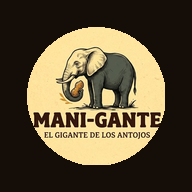
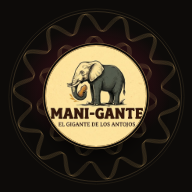
v4.1: pulido de la Casa (splash e íconos PWA, offline, panel, copys sin 'armas', móvil)
Claude-Session: https://claude.ai/code/session_01MP6L6wWiYYpSBmbDxhuL1U

diff --git a/css/admin.css b/css/admin.css
@@ -14,11 +14,11 @@ code { font-family: ui-monospace, Menlo, monospace; font-size: .85em; }
 .a-tools { display: flex; gap: 10px; align-items: center; flex-wrap: wrap; }
 .a-tools .a-field input { background: rgba(255,255,255,.08); border-color: rgba(255,255,255,.2); color: #f4ead6; }
 .a-main { max-width: 1240px; margin: 0 auto; padding: clamp(16px, 3vw, 32px); display: grid; gap: 20px; }
-.a-login { max-width: 420px; margin: 10vh auto; display: grid; gap: 14px; padding: 32px; border-radius: 24px; background: var(--surface); box-shadow: var(--elevation-raised); }
+.a-login { max-width: 420px; margin: 10vh auto; display: grid; gap: 14px; padding: 32px; border-radius: 4px; background: var(--surface); box-shadow: var(--elevation-raised); }
 .a-login h1 { font-family: "Bodoni Moda", "Bodoni Fallback", Georgia, serif; font-weight: 450; font-size: 2rem; }
 .a-login form { display: grid; gap: 12px; }
 .a-error { color: var(--color-destructive); font-weight: 700; }
-.a-card { background: var(--surface); border: 1px solid var(--line); border-radius: 22px; padding: clamp(16px, 2.4vw, 24px); box-shadow: var(--elevation-card); display: grid; gap: 14px; min-width: 0; align-content: start; }
+.a-card { background: var(--surface); border: 1px solid var(--line); border-radius: 4px; padding: clamp(16px, 2.4vw, 24px); box-shadow: var(--elevation-card); display: grid; gap: 14px; min-width: 0; align-content: start; }
 .a-card-head { display: flex; justify-content: space-between; align-items: center; gap: 12px; flex-wrap: wrap; }
 .a-card h2 { font-family: "Bodoni Moda", "Bodoni Fallback", Georgia, serif; font-weight: 500; font-size: 1.35rem; }
 .a-sub { font-size: .78rem; text-transform: uppercase; letter-spacing: .12em; color: var(--subtle); margin-top: 6px; }
@@ -31,19 +31,19 @@ code { font-family: ui-monospace, Menlo, monospace; font-size: .85em; }
 .a-field.small { flex: 0 1 120px; } .a-field.wide { flex: 1 1 100%; }
 .a-field.inline { display: flex; align-items: center; gap: 6px; flex: 0 0 auto; }
 .a-field span { font-size: .72rem; font-weight: 800; letter-spacing: .1em; text-transform: uppercase; color: var(--subtle); }
-.a-field input, .a-field select { min-height: 44px; padding: 8px 12px; border-radius: 12px; border: 1px solid var(--line); background: var(--surface-2); }
-.a-btn { min-height: 44px; padding: 0 18px; border-radius: 99px; border: 1px solid var(--line); background: var(--surface-2); font-weight: 700; cursor: pointer; }
+.a-field input, .a-field select { min-height: 44px; padding: 8px 12px; border-radius: 2px; border: 1px solid var(--line); background: var(--surface-2); }
+.a-btn { min-height: 44px; padding: 0 18px; border-radius: 2px; font-family: "Big Shoulders", "Arial Narrow", sans-serif; letter-spacing: .12em; text-transform: uppercase; font-size: .95rem; border: 1px solid var(--line); background: var(--surface-2); font-weight: 700; cursor: pointer; }
 .a-btn.primary { background: linear-gradient(135deg, var(--color-primary-light), var(--color-primary)); color: var(--color-night); border: 0; }
 .a-btn.ghost { background: transparent; }
 .a-top .a-btn { color: #f4ead6; border-color: rgba(255,255,255,.25); background: transparent; }
 .a-btn.small { min-height: 36px; padding: 0 12px; font-size: .82rem; }
 .a-btn[disabled] { opacity: .4; cursor: not-allowed; }
 .a-kpis { display: grid; grid-template-columns: repeat(4, minmax(0, 1fr)); gap: 14px; }
-.a-kpi { padding: 18px 20px; border-radius: 20px; background: var(--surface); border: 1px solid var(--line); box-shadow: var(--elevation-card); display: grid; }
+.a-kpi { padding: 18px 20px; border-radius: 4px; background: var(--surface); border: 1px solid var(--line); box-shadow: var(--elevation-card); display: grid; }
 .a-kpi span { font-size: .74rem; font-weight: 800; text-transform: uppercase; letter-spacing: .1em; color: var(--subtle); }
-.a-kpi strong { font-family: "Bodoni Moda", "Bodoni Fallback", Georgia, serif; font-weight: 450; font-size: 2.2rem; line-height: 1.1; }
+.a-kpi strong { font-family: "Big Shoulders", "Arial Narrow", sans-serif; font-weight: 800; font-size: 2.6rem; line-height: 1.1; }
 .a-kpi small { color: var(--muted); }
-.a-chip { font-size: .78rem; font-weight: 700; padding: 6px 12px; border-radius: 99px; background: var(--surface-2); border: 1px solid var(--line); }
+.a-chip { font-size: .78rem; font-weight: 700; padding: 6px 12px; border-radius: 2px; background: var(--surface-2); border: 1px solid var(--line); }
 .a-chip[data-tone="good"] { border-color: var(--color-status-good); }
 .a-chip[data-tone="critical"] { border-color: var(--color-status-critical); }
 .a-switch { display: inline-flex; align-items: center; gap: 10px; font-weight: 700; min-height: 44px; cursor: pointer; }
@@ -112,3 +112,9 @@ code { font-family: ui-monospace, Menlo, monospace; font-size: .85em; }
 .a-toast.bad { background: var(--color-destructive); }
 .a-tip { position: fixed; z-index: 40; padding: 6px 10px; border-radius: 8px; background: var(--color-night); color: #f4ead6; font-size: .8rem; font-weight: 700; pointer-events: none; }
 @media (max-width: 900px) { .a-grid2, .a-charts { grid-template-columns: minmax(0, 1fr); } .a-kpis { grid-template-columns: repeat(2, minmax(0, 1fr)); } .a-vitals { grid-template-columns: repeat(2, minmax(0, 1fr)); } }
+
+/* v4 · Casa Mani-Gante: el panel comparte materiales con la web */
+#aApp:not([hidden]) { display: grid; gap: 20px; }
+.a-top { border-bottom: 1px solid rgba(210,174,109,.35); }
+.a-card h2::before { content: "◆ "; color: var(--gold); font-size: .7em; vertical-align: middle; }
+.a-card, .a-kpi { border-color: rgba(210,174,109,.18); }

diff --git a/offline.html b/offline.html
@@ -1,5 +1,15 @@
 <!DOCTYPE html>
 <html lang="es-CL"><head><meta charset="UTF-8"><meta name="viewport" content="width=device-width, initial-scale=1"><title>Sin conexión · MANI-GANTE</title>
+<meta name="theme-color" content="#0d0b09">
 <link rel="stylesheet" href="/css/fonts.css"><link rel="stylesheet" href="/css/tokens.css">
-<style>body{margin:0;min-height:100svh;display:grid;place-items:center;text-align:center;padding:24px;background:var(--color-night);color:#f4ead6;font-family:'Instrument Sans',system-ui,sans-serif}h1{font-family:Fraunces,Georgia,serif;font-weight:450;font-size:2.4rem;margin:12px 0}p{color:rgba(244,234,214,.75);max-width:42ch;margin:0 auto 20px}a{display:inline-flex;align-items:center;min-height:48px;padding:0 24px;border-radius:99px;background:var(--color-primary);color:var(--color-night);font-weight:700;text-decoration:none}.hand{font-family:Caveat,cursive;font-size:1.6rem;color:var(--color-primary-light)}</style></head>
-<body><main><p class="hand">se cortó la señal</p><h1>Sin conexión, mi pana</h1><p>Cuando vuelva el internet seguimos. Tu boleta quedó guardada en este teléfono.</p><a href="/">Reintentar</a></main></body></html>
+<style>
+body{margin:0;min-height:100svh;display:grid;place-items:center;text-align:center;padding:24px;color:#f2eadb;font-family:'Instrument Sans',system-ui,sans-serif;background:radial-gradient(60% 60% at 50% 40%,rgba(110,26,44,.45),transparent 70%),#0d0b09}
+main{max-width:460px;display:grid;gap:16px;justify-items:center}
+.plate{font-family:'Big Shoulders','Arial Narrow',sans-serif;font-weight:800;letter-spacing:.3em;text-transform:uppercase;font-size:.84rem;color:#ddbb7c;border:1px solid currentColor;padding:6px 14px}
+h1{font-family:'Bodoni Moda',Georgia,serif;font-weight:500;font-size:clamp(2.4rem,9vw,3.4rem);line-height:.95;margin:0}
+h1 em{color:#d9b676}
+p{color:#bfb3a1;margin:0}
+a{display:inline-flex;align-items:center;min-height:52px;padding:0 28px;background:linear-gradient(100deg,#b08a45,#f1dba8 40%,#d2ae6d 60%,#e9cf97);color:#0d0b09;font-family:'Big Shoulders','Arial Narrow',sans-serif;font-weight:800;letter-spacing:.16em;text-transform:uppercase;text-decoration:none}
+a:focus-visible{outline:2px solid #ddbb7c;outline-offset:3px}
+</style></head>
+<body><main><p class="plate">Se cortó la línea</p><h1>La casa sigue <em>abierta</em></h1><p>Se cayó el internet, mi pana. Cuando vuelva seguimos: tu cuenta quedó guardada en este teléfono.</p><a href="/">Reintentar</a></main></body></html>

diff --git a/design/banners/splash.html b/design/banners/splash.html
@@ -1,0 +1,31 @@
+<!doctype html>
+<html lang="es"><head><meta charset="utf-8"><title>Splash · Casa Mani-Gante</title>
+<link rel="stylesheet" href="../../css/fonts.css">
+<style>
+html, body { margin: 0; }
+.s { position: relative; overflow: hidden; display: grid; place-items: center; background: radial-gradient(55% 45% at 50% 45%, #5a1424, transparent 72%), #0d0b09; color: #f2eadb; }
+.ros { position: absolute; color: rgba(210,174,109,.35); }
+.coin { position: relative; border-radius: 50%; box-shadow: 0 0 0 calc(var(--u) * .5) #d2ae6d, 0 0 0 calc(var(--u) * 1.4) #0d0b09, 0 0 0 calc(var(--u) * 1.7) rgba(210,174,109,.55), 0 calc(var(--u) * 6) calc(var(--u) * 10) rgba(0,0,0,.6); }
+.txt { position: absolute; left: 0; right: 0; text-align: center; }
+.name { font-family: "Bodoni Moda", serif; font-weight: 600; letter-spacing: .18em; }
+.name span { color: #d2ae6d; font-family: "Big Shoulders", sans-serif; }
+.slogan { font-family: "Bodoni Moda", serif; font-style: italic; color: #d9b676; margin-top: .4em; }
+</style></head>
+<body>
+<div class="s" id="s"></div>
+<script type="module">
+import { guilloche } from "../../js/art.mjs";
+const q = new URLSearchParams(location.search);
+const w = +q.get("w"), h = +q.get("h"), icon = q.has("icon");
+const s = document.getElementById("s");
+s.style.width = w + "px"; s.style.height = h + "px";
+const u = Math.min(w, h) / 100; s.style.setProperty("--u", u + "px");
+const coin = icon ? Math.round(w * .52) : Math.round(Math.min(w, h) * .34);
+const ros = icon ? Math.round(w * .92) : Math.round(Math.min(w, h) * .9);
+s.innerHTML = `<div class="ros" style="width:${ros}px;height:${ros}px">${guilloche()}</div>
+  <img class="coin" src="../../assets/img/icon-512.png" alt="" style="width:${coin}px;height:${coin}px">
+  ${icon ? "" : `<div class="txt" style="bottom:${Math.round(h * .16)}px"><div class="name" style="font-size:${Math.round(w * .075)}px">MANI<span>-</span>GANTE</div><div class="slogan" style="font-size:${Math.round(w * .045)}px">Para gente gánster y elegante</div></div>`}`;
+await document.fonts.ready;
+document.body.dataset.ready = "1";
+</script>
+</body></html>

diff --git a/css/styles.css b/css/styles.css
@@ -1023,7 +1023,11 @@ svg.bag { display: block; height: auto; aspect-ratio: 120 / 160; }
   .has-cart .agent-fab { bottom: 84px; }
   .dock:not([hidden]) { display: flex; }
   .drawer { top: auto; left: 8px; right: 8px; bottom: 0; width: auto; max-height: 88svh; transform: translateY(calc(100% + 20px)); }
-  .footer-actions .btn { flex: 1; }
+  .footer-actions { width: 100%; }
+  .footer-actions .btn { flex: 1 1 100%; }
+  .drawer-body { min-height: 26svh; }
+  .drawer-foot { gap: 8px; padding: 12px 18px 20px; }
+  .drawer-foot .btn { --h: 48px; }
   .footer-cols { grid-template-columns: minmax(0, 1fr); }
   .letter-body { columns: 1; }
   .masthead-top span:nth-child(2) { display: none; }

diff --git a/index.html b/index.html
@@ -1186,7 +1186,7 @@
   <div class="container">
     <header class="section-head center">
       <p class="eyebrow"><span>Cap. III</span><span>Para el grupo, la sala o un regalo</span></p>
-      <h2 class="h2" id="boxTitle">Arma tu <em>maletín</em></h2>
+      <h2 class="h2" id="boxTitle">Llena tu <em>maletín</em></h2>
       <p class="lead">Elige el tamaño y llena cada compartimiento con el sabor que quieras. Para compartir, para la sala o para quedar como un señor.</p>
     </header>
     <div class="box-sizes" id="boxSizes" role="radiogroup" aria-label="Tamaño del maletín"></div>

diff --git a/docs/brand-guidelines.md b/docs/brand-guidelines.md
@@ -83,7 +83,7 @@ El papel (invitación, cuenta, periódico y telegrama) usa la clase `.paper-room
 |---|---|
 | Tienda / top ventas | **Los más buscados** / "Más buscado" |
 | Sabor nuevo | "Recién llegado" |
-| Arma tu caja | **El maletín** |
+| Arma tu caja | **Llena tu maletín** (evitamos "arma": en clave gánster suena a armas) |
 | Reservar | **Pedir una cita con el Jefe** |
 | Carrito / boleta | **La cuenta de la casa** |
 | Formas de pago | **Así se cierra el trato** |
@@ -102,7 +102,7 @@ El papel (invitación, cuenta, periódico y telegrama) usa la clase `.paper-room
 - **Claridad primero:** en pagos, horarios y pasos de reserva, el juego de palabras nunca reemplaza el dato.
 
 ### Límites (no negociables)
-- **Nunca:** armas, violencia, drogas, "mercancía", "contrabando", "dealer", "soplón", ni nada que insinúe algo ilegal.
+- **Nunca:** armas (ni el verbo "armar" en titulares: decimos "llenar", "completar"), violencia, drogas, "mercancía", "contrabando", "dealer", "soplón", ni nada que insinúe algo ilegal.
 - El "gánster" es estilo, lealtad y elegancia.
 - Prohibido también: "el mejor del mundo", "garantizado", reseñas inventadas.
 

diff --git a/CHANGELOG.md b/CHANGELOG.md
@@ -44,10 +44,17 @@ Identidad nueva y única. La investigación está en [`docs/identidad-casa.md`](
 - axe WCAG 2.2 AA sin violaciones en Noche y Marfil. Todos los contrastes están documentados.
 - El service worker (`mg-v4-2026.10.3`) limpia la caché de la v3, así nadie queda viendo el diseño anterior.
 
+**Pulido v4.1**
+- Splash screens de iOS e íconos maskable con roseta y moneda dorada (`scripts/pwa-art.mjs`).
+- Página sin conexión con la estética de la casa.
+- Panel de Jorge alineado con la identidad: esquinas rectas, cifras en Big Shoulders y rombos dorados.
+- Copys revisados: se quitó "armas el combo" y "Arma tu caja" (en clave gánster sonaban a armas). Ahora dicen "completas" y "Llena tu maletín".
+- En celular: botones del pie a ancho completo y la cuenta muestra más líneas de pedido.
+
 **Pendiente**
 - Jorge revisa los alias, el horario y `NEW_IDS`.
 - Foto de Jorge para El Diario (opcional).
-- Splash screens de iOS con la estética nueva.
+- El logo del elefante todavía dice "El gigante de los antojos". Si Jorge quiere, se hace una versión con el eslogan nuevo.
 
 ## v3.0 · catálogo 2026.10.2 (octubre 2026)
 
